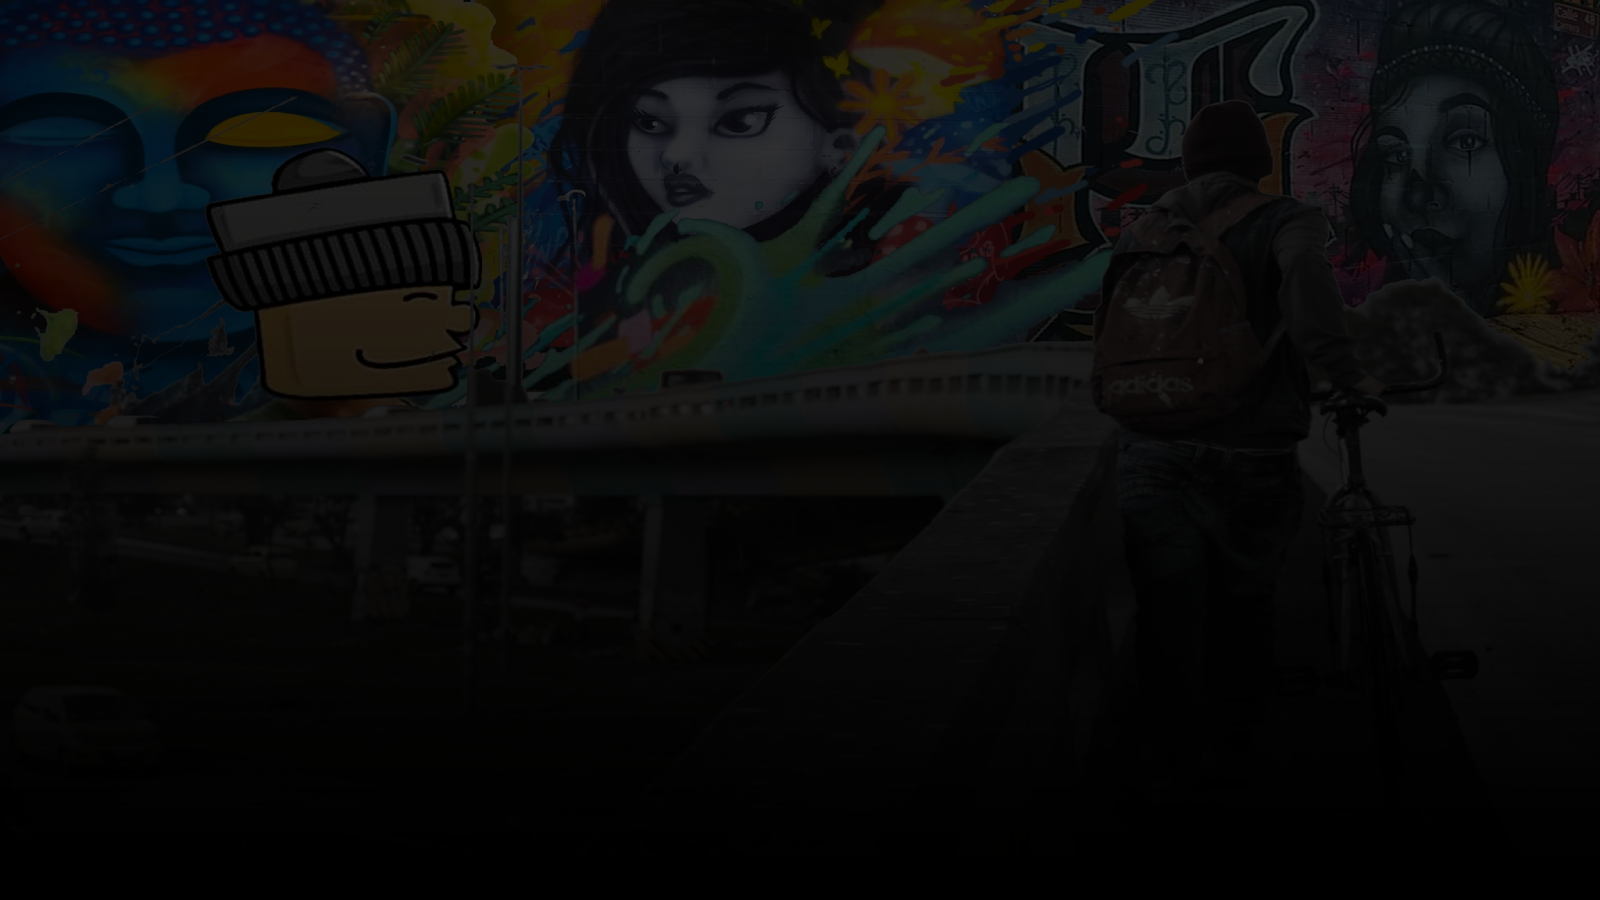
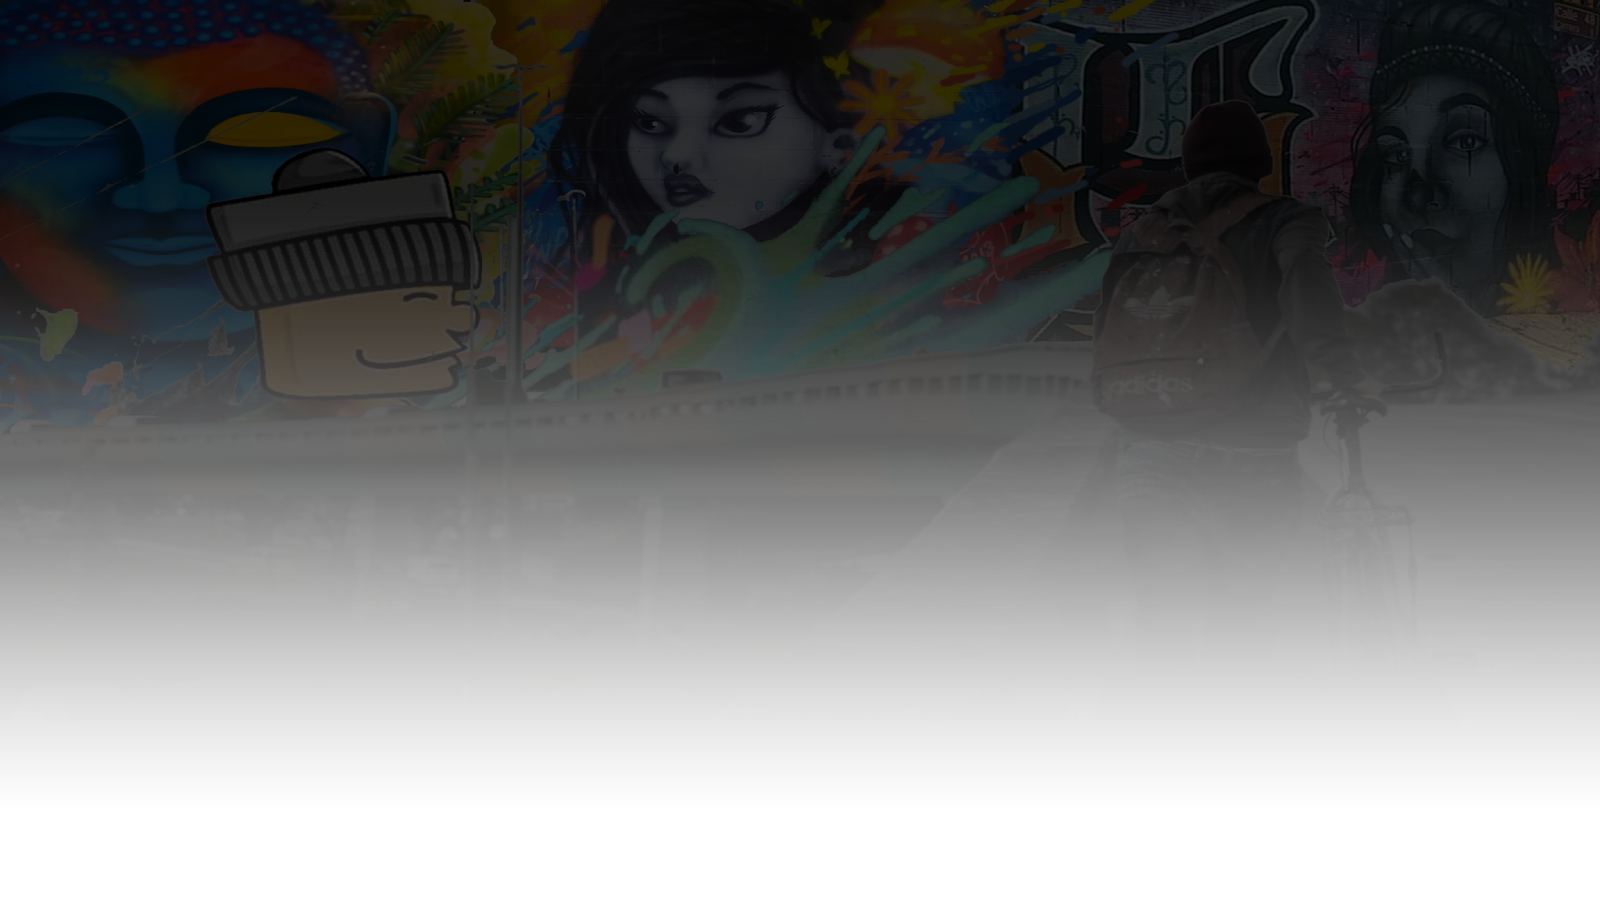
Add background in body and change background header and adjusting types

diff --git a/src/app/proyectos/[id]/components/ThumbnailMap.tsx b/src/app/proyectos/[id]/components/ThumbnailMap.tsx
@@ -1,6 +1,7 @@
 import { Box, GoogleMaps, Marker } from '@/components'
 import { BORDER_RADIUS } from '@/styles/variables'
-import { CSS } from '@nextui-org/react'
+import { CSS, Modal } from '@nextui-org/react'
+import { useState } from 'react'
 
 type ThumbnailMapProps = {
   position: {
@@ -9,61 +10,105 @@ type ThumbnailMapProps = {
   }
 }
 
-const ThumbnailMap = ({ position }: ThumbnailMapProps) => {
-  return (
-    <Box
-      css={{
-        width: 300,
-        height: 300,
-        position: 'relative',
-        transition: 'all .3s',
-        '&::after': {
-          content: '',
-          transition: 'all .3s',
-          backgroundColor: 'auto'
-        },
-        '&:hover': {
-          transition: 'all .3s',
-          zIndex: 10,
-          cursor: 'pointer',
+const containerThumbnailMap = {
+  width: 300,
+  height: 300,
+  position: 'relative',
+  transition: 'all .3s',
+  '&::after': {
+    content: '',
+    transition: 'all .3s',
+    backgroundColor: 'auto'
+  },
+  '&:hover': {
+    transition: 'all .3s',
+    zIndex: 10,
+    cursor: 'pointer',
 
-          '&::after': {
-            content: '🔎 Abrir mapa',
-            transition: 'all .3s',
-            borderRadius: BORDER_RADIUS,
-            backgroundColor: '#09192b90',
-            color: '#ffffff',
-            position: 'absolute',
-            width: '100%',
-            height: '100%',
-            top: '0',
-            left: '0',
-            fontSize: '$3xl',
-            display: 'flex',
-            alignItems: 'center',
-            justifyContent: 'center',
-            backdropFilter: 'blur(3px)'
-          } as CSS
-        }
-      }}
-    >
-      <GoogleMaps
-        options={{
-          fullscreenControl: false,
-          mapTypeControl: false,
-          streetViewControl: false,
-          zoomControl: false
+    '&::after': {
+      content: '🔎 Abrir mapa',
+      transition: 'all .3s',
+      borderRadius: BORDER_RADIUS,
+      backgroundColor: '#09192b90',
+      color: '#ffffff',
+      position: 'absolute',
+      width: '100%',
+      height: '100%',
+      top: '0',
+      left: '0',
+      fontSize: '$3xl',
+      display: 'flex',
+      alignItems: 'center',
+      justifyContent: 'center',
+      backdropFilter: 'blur(3px)'
+    } as CSS
+  }
+} as CSS
+
+const ThumbnailMap = ({ position }: ThumbnailMapProps) => {
+  const [visible, setVisible] = useState(false)
+
+  const closeHandler = () => {
+    setVisible(false)
+  }
+
+  return (
+    <>
+      <Box onClick={() => setVisible(true)} css={containerThumbnailMap}>
+        <GoogleMaps
+          options={{
+            fullscreenControl: false,
+            mapTypeControl: false,
+            streetViewControl: false,
+            zoomControl: false
+          }}
+          center={position}
+          zoom={14}
+          mapContainerStyle={{
+            maxWidth: '300px',
+            height: '300px'
+          }}
+        >
+          <Marker position={position} />
+        </GoogleMaps>
+      </Box>
+      <Modal
+        closeButton
+        scroll
+        blur
+        css={{
+          pt: 0
         }}
-        center={position}
-        zoom={14}
-        mapContainerStyle={{
-          maxWidth: '300px',
-          height: '300px'
-        }}
+        width="100%"
+        aria-labelledby="modal-full-map"
+        aria-describedby="ubicación-del-grafiti"
+        open={visible}
+        onClose={closeHandler}
       >
-        <Marker position={position} />
-      </GoogleMaps>
-    </Box>
+        <Modal.Body
+          css={{
+            py: '$10'
+          }}
+        >
+          <GoogleMaps
+            options={{
+              fullscreenControl: false,
+              mapTypeControl: false,
+              streetViewControl: false,
+              zoomControl: true
+            }}
+            center={position}
+            zoom={14}
+            mapContainerStyle={{
+              width: '100%',
+              height: '100vh'
+            }}
+          >
+            <Marker position={position} />
+          </GoogleMaps>
+        </Modal.Body>
+      </Modal>
+    </>
   )
 }
 

diff --git a/src/app/layout.tsx b/src/app/layout.tsx
@@ -12,6 +12,7 @@ import { ParallaxProvider } from 'react-scroll-parallax'
 import IcoBlitoWhite from '@/assets/images/icon-blito-white.ico'
 import { useEffect, useState } from 'react'
 import Splash from './components/Splash'
+import BgBodyFigures from '@/assets/images/bg-body-figures.jpeg'
 
 const darkTheme = createTheme({
   type: 'dark'
@@ -54,7 +55,14 @@ function RootLayout({ children }: RootLayoutProps): JSX.Element {
           href={IcoBlitoWhite.src}
         />
       </head>
-      <body>
+      <body
+        style={{
+          backgroundImage: `url(${BgBodyFigures.src})`,
+          backgroundRepeat: 'no-repeat',
+          backgroundAttachment: 'fixed',
+          backgroundSize: 'cover'
+        }}
+      >
         <ParallaxProvider>
           <NextUIProvider theme={darkTheme}>
             <Provider store={store}>

diff --git a/src/app/proyectos/[id]/page.tsx b/src/app/proyectos/[id]/page.tsx
@@ -32,7 +32,7 @@ const ProjectIdPage = ({ params }: ProjectIdPage) => {
   const [isCollapse, setIsCollapse] = useState(false)
 
   const { data: project, error } = useSWR<Project>(
-    `/proyectos/${params.id}`,
+    `/projects/${params.id}`,
     fetcher
   )
 
@@ -45,7 +45,7 @@ const ProjectIdPage = ({ params }: ProjectIdPage) => {
     ]
   } as BreadcrumbsProps
 
-  const displayContent = () => {
+  const displayAside = () => {
     if (!project) {
       return (
         <Row justify="center">
@@ -134,7 +134,7 @@ const ProjectIdPage = ({ params }: ProjectIdPage) => {
                       </Button>
                     )}
 
-                    {displayContent()}
+                    {displayAside()}
                   </Box>
                 )
               }}

diff --git a/src/app/proyectos/components/ListOfProjects.tsx b/src/app/proyectos/components/ListOfProjects.tsx
@@ -33,12 +33,13 @@ const ListOfProjects = ({ projects }: ListOfProjectsProps) => {
       <Grid.Container gap={3} justify="center">
         {projects.slice(0, 10).map((project) => (
           <Grid xs={12} sm={6} md={4} key={project.id} justify="center">
-            <Link
+            <Link href={`/proyectos/${project.id}`}>
+              {/* <Link
               href={{
                 pathname: '/proyectos/[id]',
                 query: { id: project.id }
               }}
-            >
+            > */}
               <CardProject {...project} />
             </Link>
           </Grid>

diff --git a/src/app/components/CardImage.tsx b/src/app/components/CardImage.tsx
@@ -1,13 +1,14 @@
 'use client'
 
 import { BoxProps, Text } from '@/components'
-import { Category } from '@/modules/categories/models'
+
 import { BORDER_RADIUS } from '@/styles/variables'
 import Image from 'next/image'
 import styles from './CardImage.module.css'
 import classnames from 'classnames'
 import Tilt from 'react-parallax-tilt'
 import Link from 'next/link'
+import { Category } from '@/models/categories-summary.models'
 
 const getDateFormat = (dateISOString: string) => {
   const instanceDate = new Date(dateISOString)

diff --git a/src/app/proyectos/page.tsx b/src/app/proyectos/page.tsx
@@ -16,13 +16,16 @@ const breadcrumbs = {
   ]
 } as BreadcrumbsProps
 
-const ProjectsPage = () => {
-  const params = useSearchParams()
+type ProjectsPageProps = {
+  params: {}
+  searchParams: {
+    category: string
+  }
+}
 
-  const categoryFilter = params.get('category')
-
+const ProjectsPage = ({ searchParams }: ProjectsPageProps) => {
   const { data: projects, error } = useSWR<Project[]>(
-    `/proyectos?category=${categoryFilter}`,
+    `/projects?category=${searchParams.category}`,
     fetcher
   )
 

diff --git a/src/app/proyectos/services/project.service.ts b/src/app/proyectos/services/project.service.ts
@@ -17,7 +17,7 @@ export const getAll = async ({ category } = filterDefaultProjects): Promise<
   return new Promise((resolve, reject) => {
     setTimeout(async () => {
       const url = process.env.NEXT_PUBLIC_BLITONER_API
-      const response = await fetch(`${url}/proyectos?category=${category}`)
+      const response = await fetch(`${url}/projects?category=${category}`)
       const data = await response.json()
 
       if (!response.ok) {

diff --git a/src/app/contacto/page.tsx b/src/app/contacto/page.tsx
@@ -23,13 +23,14 @@ const ContactPage = () => {
           alt="Grafiti con temática ambiental"
           fill
           style={{
-            filter: 'brightness(0.7) grayscale(1)'
+            filter: 'brightness(.2) grayscale(.2)',
+            objectFit: 'cover'
           }}
         />
       </Box>
       <Box
         css={{
-          bgBlur: '#000000bd'
+          bgBlur: '#0000008e'
         }}
       >
         <Form />

diff --git a/src/app/components/Home.tsx b/src/app/components/Home.tsx
@@ -1,6 +1,6 @@
 'use client'
 
-import { CategoriesSummaryContents } from '@/modules/categories/models'
+import { CategoriesSummaryContents } from '@/models/categories-summary.models'
 import { ParallaxBanner, ParallaxBannerLayer } from 'react-scroll-parallax'
 import Image from 'next/image'
 import { styled } from '@nextui-org/react'

diff --git a/src/app/components/Categories.tsx b/src/app/components/Categories.tsx
@@ -1,6 +1,6 @@
 'use client'
 
-import { CategoriesSummaryContents } from '@/modules/categories/models'
+import { CategoriesSummaryContents } from '@/models/categories-summary.models'
 import { Button, Container, styled } from '@nextui-org/react'
 import { CardLinkImage } from './CardImage'
 import { Text } from '@/components'

diff --git a/src/styles/globals.css b/src/styles/globals.css
@@ -13,6 +13,7 @@ body {
   font-family: -apple-system, BlinkMacSystemFont, Segoe UI, Roboto, Oxygen,
     Ubuntu, Cantarell, Fira Sans, Droid Sans, Helvetica Neue, sans-serif;
   width: 100%;
+  background-color: transparent !important;
 }
 
 body div:has(nav):has(footer):has(main) {

diff --git a/src/models/categories-summary.models.ts b/src/models/categories-summary.models.ts
@@ -1,0 +1,13 @@
+export type CategoriesSummaryContents = Category[]
+
+export interface Category {
+  id: string /* Id of category */
+  name: string
+  description: string
+  projects: Array<{
+    id: string
+    name: string
+    date: string
+    image: string
+  }>
+}
